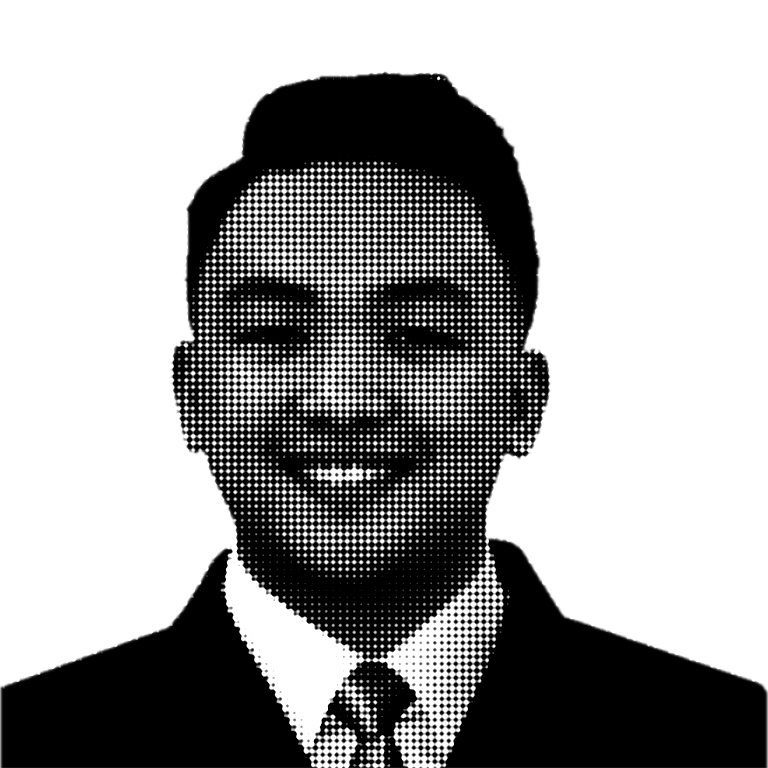
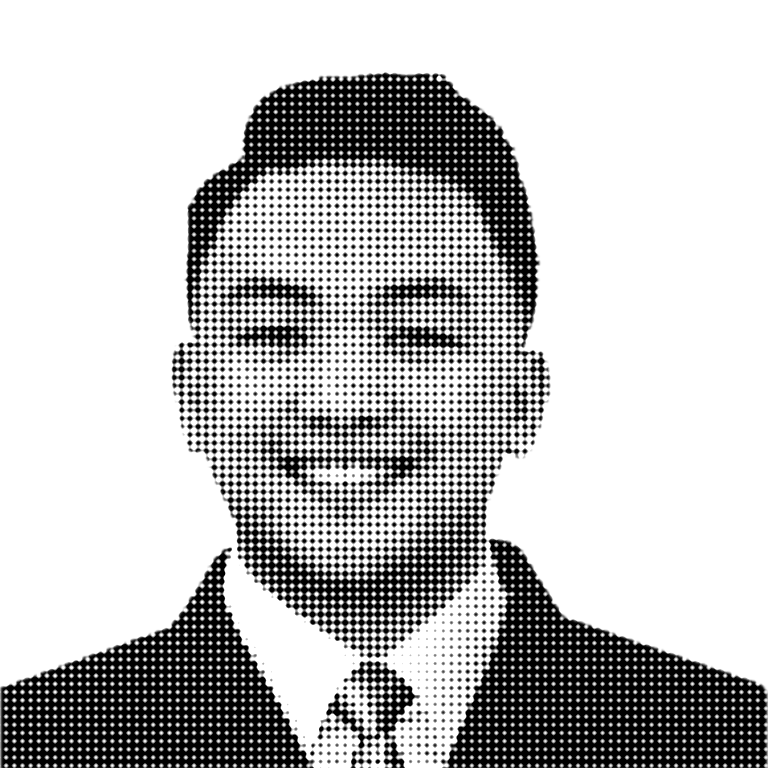
Brighten halftone portrait so the face reads at display size
Midtones were merging into black at 288px. Stronger gamma lift
(0.68), slight brightness, wider dot pitch (7) keep the features
distinct while pushing skin tones toward the highlight range.

Changed region(s): [[0.0, 0.0938, 1.0, 1.0]]

diff --git a/scripts/portrait/README.md b/scripts/portrait/README.md
@@ -5,11 +5,11 @@
 
 ```sh
 swift scripts/portrait/halftone.swift <photo.jpg> public/portrait.png \
-  6     `# dot pitch in px` \
+  7     `# dot pitch in px` \
   0     `# screen angle, degrees` \
-  1.08  `# contrast` \
-  0.07  `# brightness` \
-  0.78  `# gamma (lower = brighter midtones)` \
+  1.02  `# contrast` \
+  0.10  `# brightness` \
+  0.68  `# gamma (lower = brighter midtones)` \
   768   `# output size in px (dot pitch scales with it: 6 at 768)`
 ```
 
